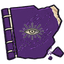
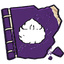
style(art): 将心法秘籍与残卷封面升级为高辨识度纯白二值矢量Logo符号

Changed region(s): [[0.2812, 0.2812, 0.7188, 0.6875]]

diff --git a/.agents/skills/moss-art/scripts/moss_generator.py b/.agents/skills/moss-art/scripts/moss_generator.py
@@ -411,64 +411,64 @@ PRESET_BATCHES = {
             "id": "emblem.tuna-gong",
             "name": "吐纳功图腾",
             "bbox": [-400, -440, -120, -180],
-            "caption": "Top-left item: [吐纳功图腾 - Tuna Breathing Doodle Emblem]. A minimalist hand-drawn Xianxia doodle emblem of a swirling breath qi vortex with two yin-yang curved mist arcs and tiny wind trails, ivory cream colored with dark ink outline, clean simple 2D game icon doodle."
+            "caption": "Top-left item: [吐纳功图腾 - Tuna Breathing Logo]. A bold solid pure white minimalist vector silhouette logo of a taiji breath vortex with swirling thick mist curves, clean simple graphic icon mark, solid white shape, no gradients, no shading, flat 2D."
         },
         {
             "id": "emblem.manniu-jin",
             "name": "蛮牛劲图腾",
             "bbox": [-400, -130, -120, 130],
-            "caption": "Top-center item: [蛮牛劲图腾 - Raging Bull Doodle Emblem]. A minimalist hand-drawn Xianxia doodle emblem of a ferocious raging bull head with thick curved horns and shockwave arcs, ivory cream colored with dark ink outline, clean simple 2D game icon doodle."
+            "caption": "Top-center item: [蛮牛劲图腾 - Raging Bull Logo]. A bold solid pure white minimalist vector silhouette logo of a ferocious raging bull head with massive thick horns, clean simple graphic icon mark, solid white shape, no gradients, no shading, flat 2D."
         },
         {
             "id": "emblem.tiebu-shan",
             "name": "铁布衫图腾",
             "bbox": [-400, 180, -120, 440],
-            "caption": "Top-right item: [铁布衫图腾 - Iron Shirt Doodle Emblem]. A minimalist hand-drawn Xianxia doodle emblem of an ancient defensive iron bell and shield cuirass armor silhouette, ivory cream colored with dark ink outline, clean simple 2D game icon doodle."
+            "caption": "Top-right item: [铁布衫图腾 - Iron Shirt Logo]. A bold solid pure white minimalist vector silhouette logo of an ancient heavy defensive iron bell and shield cuirass, clean simple graphic icon mark, solid white shape, no gradients, no shading, flat 2D."
         },
         {
             "id": "emblem.feiyan-gong",
             "name": "飞燕功图腾",
             "bbox": [120, -440, 400, -180],
-            "caption": "Bottom-left item: [飞燕功图腾 - Flying Swallow Doodle Emblem]. A minimalist hand-drawn Xianxia doodle emblem of a soaring flying swallow bird with split tail and swift wind blade streaks, ivory cream colored with dark ink outline, clean simple 2D game icon doodle."
+            "caption": "Bottom-left item: [飞燕功图腾 - Flying Swallow Logo]. A bold solid pure white minimalist vector silhouette logo of a soaring flying swallow bird with split tail and broad wings, clean simple graphic icon mark, solid white shape, no gradients, no shading, flat 2D."
         },
         {
             "id": "emblem.qingxin-jue",
             "name": "清心诀图腾",
             "bbox": [120, -130, 400, 130],
-            "caption": "Bottom-center item: [清心诀图腾 - Clear Heart Doodle Emblem]. A minimalist hand-drawn Xianxia doodle emblem of a serene three-petaled water lotus flower with a single crystal dewdrop above, ivory cream colored with dark ink outline, clean simple 2D game icon doodle."
+            "caption": "Bottom-center item: [清心诀图腾 - Clear Heart Logo]. A bold solid pure white minimalist vector silhouette logo of a serene water lotus flower with a crystal teardrop, clean simple graphic icon mark, solid white shape, no gradients, no shading, flat 2D."
         }
     ],
-    # 纯手绘象牙白简笔画图腾组 B (后 5 门心法图腾，供线装书与残卷合成)
+    # 纯白二值矢量Logo图腾组 B (后 5 门心法图腾，供线装书与残卷合成)
     "emblems_group_b": [
         {
             "id": "emblem.fenxue-gong",
             "name": "焚血功图腾",
             "bbox": [-400, -440, -120, -180],
-            "caption": "Top-left item: [焚血功图腾 - Blood Burning Doodle Emblem]. A minimalist hand-drawn Xianxia doodle emblem of a blazing demonic heart with three jagged flame tendrils surging upward, ivory cream colored with dark ink outline, clean simple 2D game icon doodle."
+            "caption": "Top-left item: [焚血功图腾 - Blood Burning Logo]. A bold solid pure white minimalist vector silhouette logo of a blazing flame heart with sharp fire tendrils, clean simple graphic icon mark, solid white shape, no gradients, no shading, flat 2D."
         },
         {
             "id": "emblem.xiaozhoutian-gong",
             "name": "小周天功图腾",
             "bbox": [-400, -130, -120, 130],
-            "caption": "Top-center item: [小周天功图腾 - Microcosmic Orbit Doodle Emblem]. A minimalist hand-drawn Xianxia doodle emblem of a sacred microcosmic meridian circle with 4 cardinal acupoint dots and an S-shaped flow, ivory cream colored with dark ink outline, clean simple 2D game icon doodle."
+            "caption": "Top-center item: [小周天功图腾 - Microcosmic Orbit Logo]. A bold solid pure white minimalist vector silhouette logo of a sacred microcosmic circular orbit with cardinal dots, clean simple graphic icon mark, solid white shape, no gradients, no shading, flat 2D."
         },
         {
             "id": "emblem.cunshen-jue",
             "name": "存神诀图腾",
             "bbox": [-400, 180, -120, 440],
-            "caption": "Top-right item: [存神诀图腾 - Soul Enshrining Doodle Emblem]. A minimalist hand-drawn Xianxia doodle emblem of a mystical horizontal third eye of divine consciousness with radiating light rays, ivory cream colored with dark ink outline, clean simple 2D game icon doodle."
+            "caption": "Top-right item: [存神诀图腾 - Soul Enshrining Logo]. A bold solid pure white minimalist vector silhouette logo of a mystical third eye of divine consciousness, clean simple graphic icon mark, solid white shape, no gradients, no shading, flat 2D."
         },
         {
             "id": "emblem.lianjing-huaqi-jue",
             "name": "炼精化气诀图腾",
             "bbox": [120, -440, 400, -180],
-            "caption": "Bottom-left item: [炼精化气诀图腾 - Essence Transmutation Doodle Emblem]. A minimalist hand-drawn Xianxia doodle emblem of an ancient three-legged bronze alchemy cauldron tripod with two swirling rising vapors, ivory cream colored with dark ink outline, clean simple 2D game icon doodle."
+            "caption": "Bottom-left item: [炼精化气诀图腾 - Essence Transmutation Logo]. A bold solid pure white minimalist vector silhouette logo of an ancient three-legged cauldron tripod with rising steam, clean simple graphic icon mark, solid white shape, no gradients, no shading, flat 2D."
         },
         {
             "id": "emblem.xuanyuan-yiqi-gong",
             "name": "玄元一气功图腾",
             "bbox": [120, -130, 400, 130],
-            "caption": "Bottom-center item: [玄元一气功图腾 - Primordial Origin Qi Doodle Emblem]. A minimalist hand-drawn Xianxia doodle emblem of a grand primordial cosmic taiji vortex with celestial cloud rings, ivory cream colored with dark ink outline, clean simple 2D game icon doodle."
+            "caption": "Bottom-center item: [玄元一气功图腾 - Primordial Origin Qi Logo]. A bold solid pure white minimalist vector silhouette logo of a primordial cosmic taiji symbol surrounded by cloud rings, clean simple graphic icon mark, solid white shape, no gradients, no shading, flat 2D."
         }
     ]
 }
@@ -602,11 +602,12 @@ def process_and_slice(image_path, items_spec, output_dir=OUTPUT_DIR, target_size
         )
         crop = im.crop(safe_box)
         
-        # 自动去白底
+        # 自动去底 (普通彩色道具去白底；纯白矢量图腾绝不去白底，背景已被 RMBG 抠为透明)
         arr = np.array(crop)
         r, g, b, a = arr[:, :, 0], arr[:, :, 1], arr[:, :, 2], arr[:, :, 3]
-        is_bg = (r > 235) & (g > 235) & (b > 235)
-        arr[:, :, 3] = np.where(is_bg, 0, a)
+        if "emblem" not in it.get("id", ""):
+            is_bg = (r > 235) & (g > 235) & (b > 235)
+            arr[:, :, 3] = np.where(is_bg, 0, a)
         clean_crop = Image.fromarray(arr)
         
         # 提取真实内容 BBox
@@ -649,7 +650,7 @@ def main():
     elif "fragment" in args.batch:
         summary_cap = "simplified stylized 2D Chinese Xianxia ancient weathered parchment scroll fragment sprite sheet, clean bold shapes, torn rough paper edges, faint ancient cinnabar calligraphy runes, warm golden-amber parchment tone, clean bold silhouette, restrained details, bold brushwork, flat clean colors, distinct dark ink outline, compact fragment items floating on solid pure white background, generous empty white spacing between items, strictly no overflow."
     elif "emblem" in args.batch:
-        summary_cap = "simplified stylized 2D Chinese Xianxia martial arts skill doodle emblem sprite sheet, clean bold hand-drawn cartoon shapes, minimal simple ivory cream white chalk doodle icon with distinct dark ink outline, floating on solid pure white background, generous empty white spacing between items, strictly no overflow, clean 2D game icon."
+        summary_cap = "simplified stylized 2D Chinese Xianxia martial arts skill solid pure white vector logo sprite sheet, bold thick solid white graphic shapes, clean minimalist logo emblem mark, no gradients, no shading, no 3D, high contrast flat 2D icon, floating on solid pure white background, generous empty white spacing between items, strictly no overflow."
     else:
         summary_cap = None
     prompt_str = build_layout_prompt(items, summary_caption=summary_cap)

diff --git a/.agents/skills/moss-art/scripts/composite_manuals.py b/.agents/skills/moss-art/scripts/composite_manuals.py
@@ -85,27 +85,28 @@ def synthesize_all():
         emblem_crop = emblem_raw.crop(ebbox) if ebbox else emblem_raw
         
         cw, ch = emblem_crop.size
-        scale_tome = 44.0 / max(cw, ch)
+        scale_tome = 58.0 / max(cw, ch)
         nw, nh = max(1, int(cw * scale_tome)), max(1, int(ch * scale_tome))
         emblem_tome = emblem_crop.resize((nw, nh), Image.Resampling.LANCZOS)
         
-        # 映射至象牙米白手绘色
+        # 彻底二值化为 100% 纯白色，绝无渐变
         earr = np.array(emblem_tome)
-        gray = earr[:, :, :3].astype(float).mean(axis=-1, keepdims=True) / 255.0
-        earr[:, :, :3] = np.clip(gray * np.array([242.0, 228.0, 195.0]) * 1.05, 0, 255).astype(np.uint8)
+        alpha_mask = earr[:, :, 3] > 60
+        earr[:, :, :3] = 255
+        earr[:, :, 3] = np.where(alpha_mask, 255, 0).astype(np.uint8)
         emblem_styled = Image.fromarray(earr)
         
-        # 微弱墨色发光
-        eshadow = emblem_styled.filter(ImageFilter.GaussianBlur(1.0))
-        esarr = np.array(eshadow)
-        esarr[:, :, :3] = 20
-        esarr[:, :, 3] = (esarr[:, :, 3].astype(float) * 0.8).astype(np.uint8)
-        
+        # 生成清晰的 1-2px 深墨描边，确保纯白符号在任何封皮上锐利无比
         pos_x = 72 - nw // 2
         pos_y = 60 - nh // 2
+        
+        from scipy.ndimage import binary_dilation
+        stroke_mask = binary_dilation(alpha_mask, iterations=2) & (~alpha_mask)
+        esarr = np.zeros_like(earr)
+        esarr[stroke_mask] = [20, 20, 20, 240]
+        
         book_img.paste(Image.fromarray(esarr), (pos_x, pos_y), Image.fromarray(esarr))
         book_img.paste(emblem_styled, (pos_x, pos_y), emblem_styled)
-        
         tome_64 = book_img.resize((64, 64), Image.Resampling.LANCZOS)
         out_tome = os.path.join(OUTPUT_DIR, f"item.tome.{slug}.webp")
         tome_64.save(out_tome, format="WEBP", lossless=True)
@@ -118,24 +119,25 @@ def synthesize_all():
         frag_arr[is_frag_body, 2] = np.clip(tb * lum_f[is_frag_body] * 0.95, 0, 255).astype(np.uint8)
         frag_img = Image.fromarray(frag_arr)
         
-        scale_frag = 40.0 / max(cw, ch)
+        scale_frag = 50.0 / max(cw, ch)
         nfw, nfh = max(1, int(cw * scale_frag)), max(1, int(ch * scale_frag))
         emblem_frag = emblem_crop.resize((nfw, nfh), Image.Resampling.LANCZOS)
-        efarr = np.array(emblem_frag)
-        gray_f = efarr[:, :, :3].astype(float).mean(axis=-1, keepdims=True) / 255.0
-        efarr[:, :, :3] = np.clip(gray_f * np.array([242.0, 228.0, 195.0]) * 1.05, 0, 255).astype(np.uint8)
-        emblem_f_styled = Image.fromarray(efarr)
         
-        efshadow = emblem_f_styled.filter(ImageFilter.GaussianBlur(1.0))
-        efsarr = np.array(efshadow)
-        efsarr[:, :, :3] = 20
-        efsarr[:, :, 3] = (efsarr[:, :, 3].astype(float) * 0.8).astype(np.uint8)
+        efarr = np.array(emblem_frag)
+        alpha_f_mask = efarr[:, :, 3] > 60
+        efarr[:, :, :3] = 255
+        efarr[:, :, 3] = np.where(alpha_f_mask, 255, 0).astype(np.uint8)
+        emblem_f_styled = Image.fromarray(efarr)
         
         fpos_x = 52 - nfw // 2
         fpos_y = 62 - nfh // 2
+        
+        stroke_f_mask = binary_dilation(alpha_f_mask, iterations=2) & (~alpha_f_mask)
+        efsarr = np.zeros_like(efarr)
+        efsarr[stroke_f_mask] = [20, 20, 20, 240]
+        
         frag_img.paste(Image.fromarray(efsarr), (fpos_x, fpos_y), Image.fromarray(efsarr))
         frag_img.paste(emblem_f_styled, (fpos_x, fpos_y), emblem_f_styled)
-        
         frag_64 = frag_img.resize((64, 64), Image.Resampling.LANCZOS)
         out_frag = os.path.join(OUTPUT_DIR, f"item.fragment.{slug}.webp")
         frag_64.save(out_frag, format="WEBP", lossless=True)
